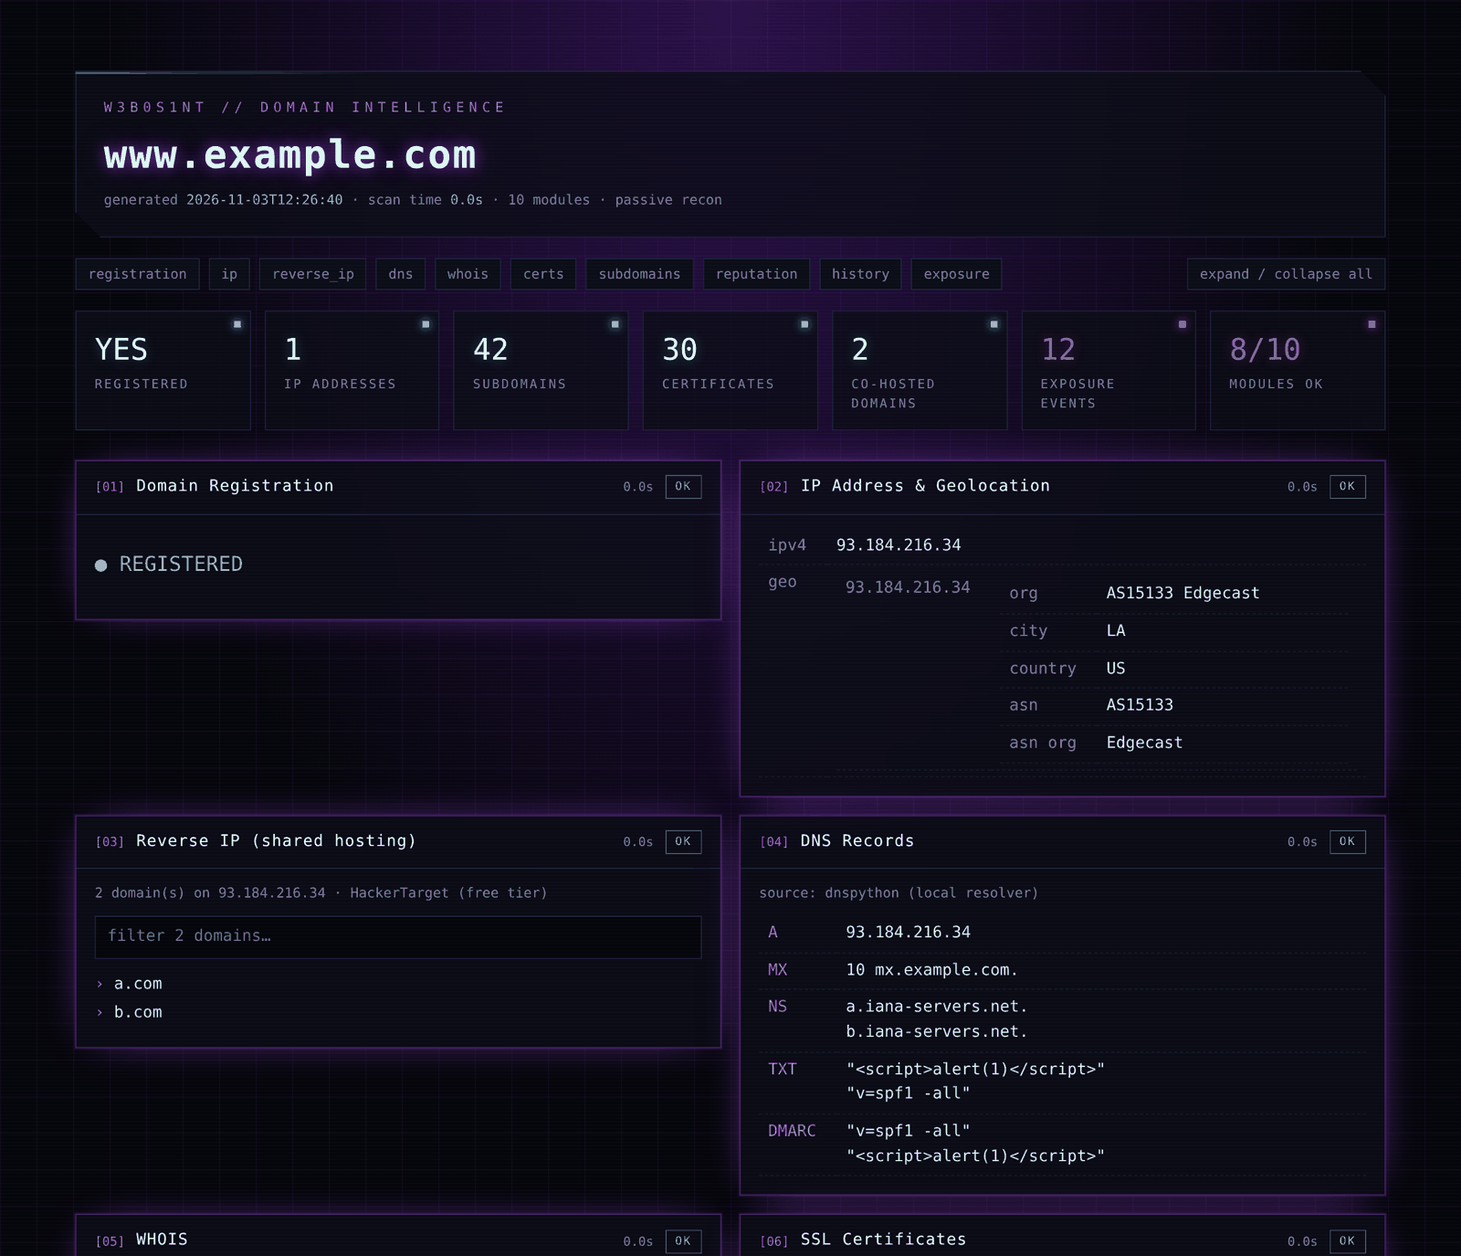
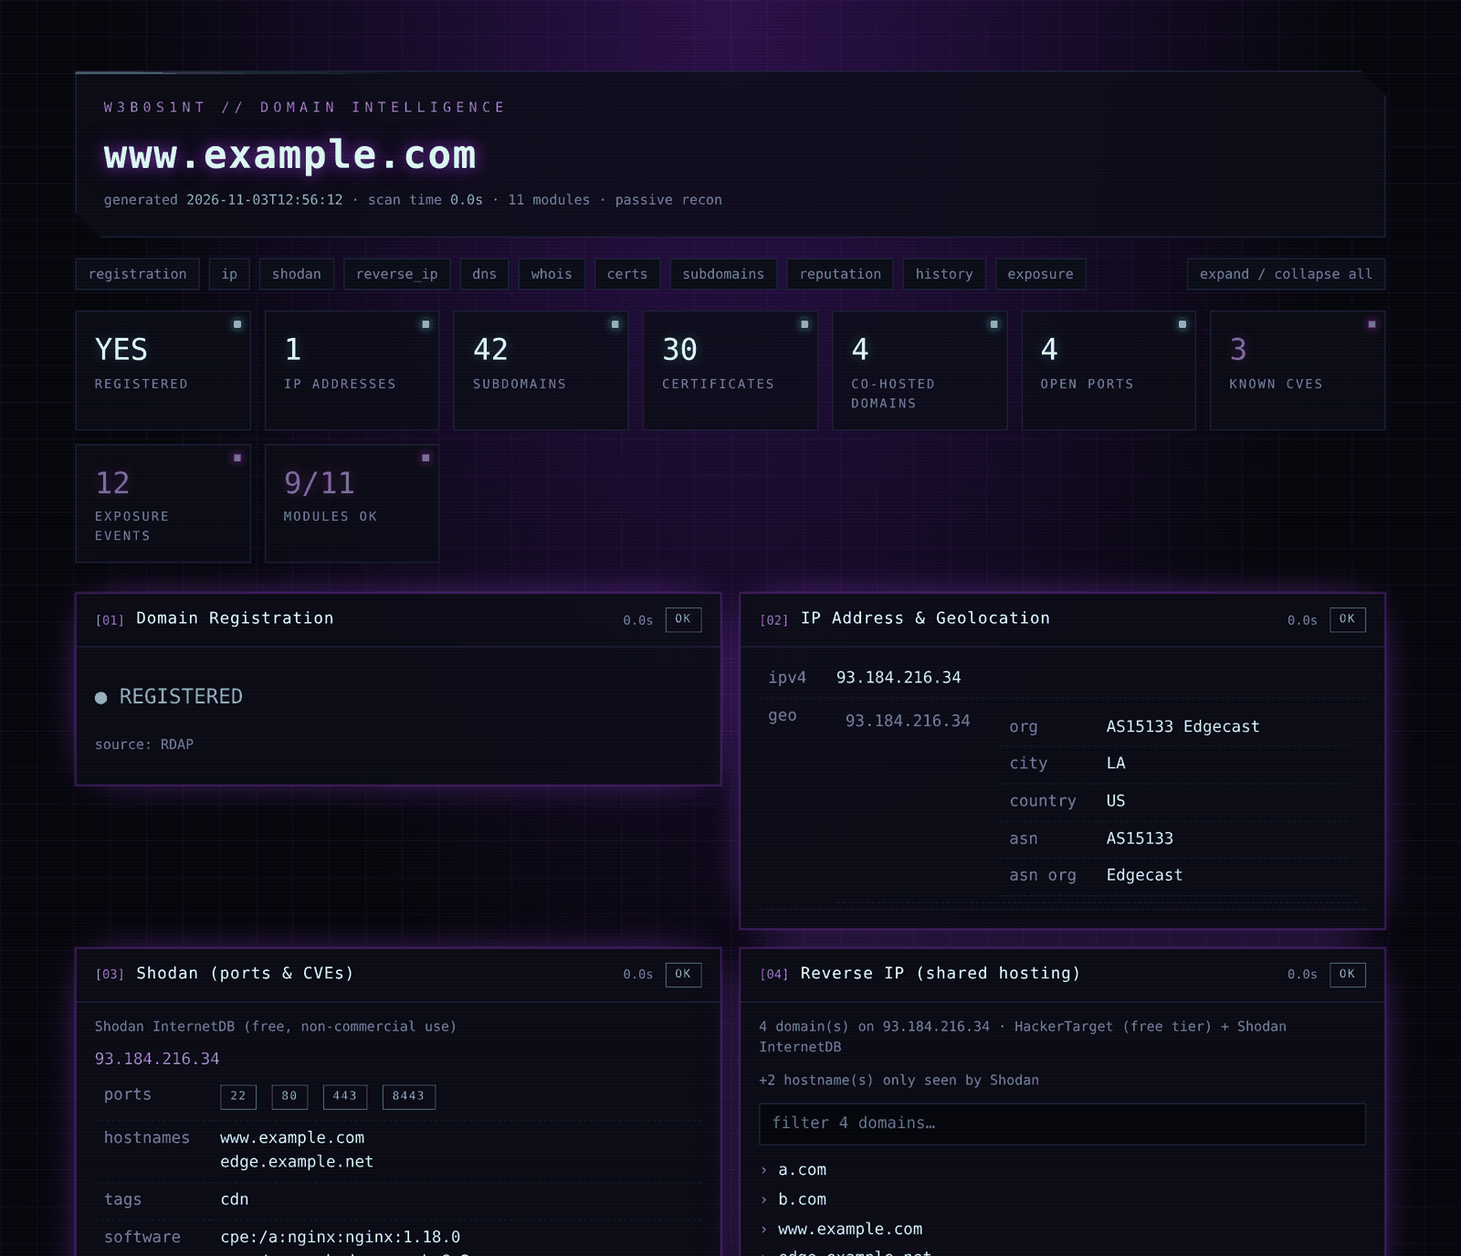
Add Shodan InternetDB module (ports, CVEs) + reverse IP backup

diff --git a/webosint.py b/webosint.py
@@ -91,6 +91,16 @@ KEY_ENV = {
 
 def load_keys(path=CONFIG_FILE):
     cfg = {}
+    example = os.path.join(os.path.dirname(os.path.abspath(path)), "config.example.json")
+    if not os.path.exists(path) and os.path.exists(example):
+        # first run: create your private config.json from the template (it is git-ignored)
+        try:
+            with open(example, encoding="utf-8") as src, open(path, "w", encoding="utf-8") as dst:
+                dst.write(src.read())
+            print(f"{C.D}[i] Created {path} from config.example.json; add your API keys there "
+                  f"(this file is never committed).{C.X}", file=sys.stderr)
+        except OSError:
+            pass
     if os.path.exists(path):
         try:
             with open(path, encoding="utf-8") as fh:
@@ -210,6 +220,16 @@ class Context:
             r.raise_for_status()
             return r.json()
         return self.cached("rdap", fetch)
+
+    def internetdb(self, ip):
+        """Shodan InternetDB: free, no key. Returns {} when Shodan has no data on the IP."""
+        def fetch():
+            r = self.session.get(f"https://internetdb.shodan.io/{ip}", timeout=self.timeout)
+            if r.status_code == 404:
+                return {}
+            r.raise_for_status()
+            return r.json()
+        return self.cached(f"internetdb:{ip}", fetch)
 
     def ips(self):
         def resolve():
@@ -390,15 +410,76 @@ def mod_reverse_ip(ctx):
         raise SkipModule("domain does not resolve")
     if not ips:
         raise SkipModule("no IPv4 address")
-    params = {"q": ips[0]}
+    ip = ips[0]
+
+    # 1) HackerTarget: free tier (20/day) or your key if config.json has one
+    ht_domains, ht_error = [], None
+    params = {"q": ip}
     if ctx.keys["HACKERTARGET_API_KEY"]:
         params["apikey"] = ctx.keys["HACKERTARGET_API_KEY"]
-    text = ctx.get("https://api.hackertarget.com/reverseiplookup/", params=params).text.strip()
-    if text.lower().startswith(("api count exceeded", "error")):
-        return {"ip": ips[0], "error": text}
-    domains = [l.strip() for l in text.splitlines() if l.strip()]
-    return {"ip": ips[0], "count": len(domains), "domains": domains,
-            "source": "HackerTarget (API key)" if "apikey" in params else "HackerTarget (free tier)"}
+    try:
+        text = ctx.get("https://api.hackertarget.com/reverseiplookup/", params=params).text.strip()
+        if text.lower().startswith(("api count exceeded", "error", "no dns a records")):
+            ht_error = text.splitlines()[0]
+        else:
+            ht_domains = [l.strip().lower() for l in text.splitlines() if l.strip()]
+    except Exception as exc:
+        ht_error = f"{exc.__class__.__name__}: {exc}"
+
+    # 2) Shodan InternetDB: always queried, free, no key (backup + extra hostnames)
+    sh_domains, sh_error = [], None
+    try:
+        sh_domains = [h.lower() for h in ctx.internetdb(ip).get("hostnames", [])]
+    except Exception as exc:
+        sh_error = f"{exc.__class__.__name__}: {exc}"
+
+    domains = uniq(ht_domains + sh_domains)
+    sources = []
+    if ht_domains:
+        sources.append("HackerTarget (API key)" if "apikey" in params else "HackerTarget (free tier)")
+    if sh_domains:
+        sources.append("Shodan InternetDB")
+    out = {"ip": ip, "count": len(domains), "domains": domains,
+           "source": " + ".join(sources) or "none"}
+    extra = [d for d in sh_domains if d not in set(ht_domains)]
+    if ht_domains and extra:
+        out["added_by_shodan"] = len(extra)
+    if ht_error:
+        out["hackertarget_note"] = ht_error + ("  → Shodan used as backup" if sh_domains else "")
+    if not domains:
+        out["error"] = "; ".join(x for x in (ht_error, sh_error) if x) or "no co-hosted domains found"
+    return out
+
+
+def mod_shodan(ctx):
+    """Open ports, software (CPE), tags and known CVEs per IP (Shodan InternetDB, free, no key)."""
+    try:
+        ips = ctx.ips()["ipv4"]
+    except socket.gaierror:
+        raise SkipModule("domain does not resolve")
+    if not ips:
+        raise SkipModule("no IPv4 address")
+    hosts = {}
+    for ip in ips[:3]:
+        try:
+            d = ctx.internetdb(ip)
+        except Exception as exc:
+            hosts[ip] = {"error": f"{exc.__class__.__name__}: {exc}"}
+            continue
+        if not d:
+            hosts[ip] = {"note": "no data in Shodan for this IP"}
+            continue
+        vulns = sorted(d.get("vulns", []), reverse=True)
+        hosts[ip] = {k: v for k, v in {
+            "ports": sorted(d.get("ports", [])),
+            "hostnames": d.get("hostnames", []),
+            "tags": d.get("tags", []),
+            "software": d.get("cpes", []),
+            "vulns_count": len(vulns),
+            "vulns": vulns,
+            "url": f"https://www.shodan.io/host/{ip}",
+        }.items() if v not in ([], None)}
+    return {"hosts": hosts, "source": "Shodan InternetDB (free, non-commercial use)"}
 
 
 DNS_TYPES = ("A", "AAAA", "CNAME", "MX", "NS", "TXT", "SOA", "CAA")
@@ -599,7 +680,8 @@ def mod_exposure(ctx):
 MODULES = [
     ("registration", "Domain Registration", mod_registration, "Is the domain registered? (RDAP/WHOIS)"),
     ("ip",           "IP Address & Geolocation", mod_ip, "A/AAAA + ipinfo.io / ipapi.co data"),
-    ("reverse_ip",   "Reverse IP (shared hosting)", mod_reverse_ip, "Other domains on the same IP (HackerTarget)"),
+    ("shodan",       "Shodan (ports & CVEs)", mod_shodan, "Open ports, software, known CVEs (Shodan, free)"),
+    ("reverse_ip",   "Reverse IP (shared hosting)", mod_reverse_ip, "Other domains on the same IP (HackerTarget + Shodan)"),
     ("dns",          "DNS Records", mod_dns, "A, AAAA, MX, NS, TXT, SOA, CAA, DMARC"),
     ("whois",        "WHOIS / RDAP", mod_whois, "Registrar, dates, contacts (RDAP, WHOIS fallback)"),
     ("certs",        "SSL Certificates", mod_certs, "Certificate Transparency (crt.sh)"),
@@ -706,7 +788,26 @@ def print_report(report, full=False):
                       + f"{C.X}  {C.D}({d.get('source', '')}){C.X}")
         elif key == "reverse_ip" and "domains" in d:
             print(f"    {C.D}{d['count']} domain(s) on {d['ip']} — {d['source']}{C.X}")
+            if d.get("hackertarget_note"):
+                print(f"    {C.Y}HackerTarget: {d['hackertarget_note']}{C.X}")
+            if d.get("added_by_shodan"):
+                print(f"    {C.D}(+{d['added_by_shodan']} hostname(s) only seen by Shodan){C.X}")
             print_list(d["domains"], limit)
+        elif key == "shodan":
+            for ip, h in d["hosts"].items():
+                print(f"    {C.B}{ip}{C.X}")
+                if "note" in h or "error" in h:
+                    print(f"      {C.D}{h.get('note') or h.get('error')}{C.X}")
+                    continue
+                for label, field in (("ports", "ports"), ("hostnames", "hostnames"), ("tags", "tags"),
+                                     ("software", "software")):
+                    if h.get(field):
+                        print(f"      {C.D}{label:<10}{C.X} {C.G}{_fmt(h[field])}{C.X}")
+                if h.get("vulns"):
+                    shown = h["vulns"] if full else h["vulns"][:15]
+                    more = "" if full or len(h["vulns"]) <= 15 else f" … +{len(h['vulns']) - 15}"
+                    print(f"      {C.D}{'CVEs':<10}{C.X} {C.R}{h['vulns_count']}: {', '.join(shown)}{more}{C.X}")
+                print(f"      {C.D}{h['url']}{C.X}")
         elif key == "subdomains":
             print(f"    {C.D}{d['count']} unique name(s) — {d['source']}{C.X}")
             print_list(d["subdomains"], limit)
@@ -866,8 +967,35 @@ def _html_module(key, res):
         return ('<p class="big yes">● REGISTERED</p>' if d["registered"]
                 else '<p class="big no">● NOT REGISTERED</p>') + src
     if key == "reverse_ip" and "domains" in d:
-        return f'<p class="note">{d["count"]} domain(s) on {_h(d["ip"])} · {_h(d["source"])}</p>' + \
+        notes = ""
+        if d.get("hackertarget_note"):
+            notes += f'<p class="warn" style="font-size:12px">HackerTarget: {_h(d["hackertarget_note"])}</p>'
+        if d.get("added_by_shodan"):
+            notes += f'<p class="note">+{d["added_by_shodan"]} hostname(s) only seen by Shodan</p>'
+        return f'<p class="note">{d["count"]} domain(s) on {_h(d["ip"])} · {_h(d["source"])}</p>' + notes + \
             _html_list(d["domains"], "domains")
+    if key == "shodan":
+        out = f'<p class="note">{_h(d["source"])}</p>'
+        for ip, h in d["hosts"].items():
+            if "note" in h or "error" in h:
+                out += f'<p><span class="tag">{_h(ip)}</span> <span class="note">{_h(h.get("note") or h.get("error"))}</span></p>'
+                continue
+            rows = ""
+            if h.get("ports"):
+                rows += "<tr><th>ports</th><td>" + " ".join(
+                    f'<span class="pill ok" style="margin:0 4px 4px 0;display:inline-block">{_h(p)}</span>'
+                    for p in h["ports"]) + "</td></tr>"
+            for f in ("hostnames", "tags", "software"):
+                if h.get(f):
+                    rows += f"<tr><th>{f}</th><td>{'<br>'.join(_h(x) for x in h[f])}</td></tr>"
+            if h.get("vulns"):
+                links = " ".join(f'<a href="https://nvd.nist.gov/vuln/detail/{_h(v)}" target="_blank" '
+                                 f'rel="noopener noreferrer" style="color:var(--bad)">{_h(v)}</a>' for v in h["vulns"])
+                rows += f'<tr><th>CVEs ({h["vulns_count"]})</th><td>{links}</td></tr>'
+            rows += (f'<tr><th>shodan</th><td><a href="{_h(h["url"])}" target="_blank" '
+                     f'rel="noopener noreferrer">{_h(h["url"])}</a></td></tr>')
+            out += f'<p class="tag" style="margin:10px 0 4px">{_h(ip)}</p><table>{rows}</table>'
+        return out
     if key == "subdomains":
         return f'<p class="note">{d["count"]} unique hostname(s) · {_h(d["source"])}</p>' + \
             _html_list(d["subdomains"], "subdomains")
@@ -905,6 +1033,12 @@ def _kpis(rep):
         tiles.append(("Certificates", data("certs")["total"], False))
     if data("reverse_ip") and "count" in data("reverse_ip"):
         tiles.append(("Co-hosted domains", data("reverse_ip")["count"], False))
+    if data("shodan"):
+        hosts = [h for h in data("shodan")["hosts"].values() if "ports" in h or "vulns" in h]
+        if hosts:
+            tiles.append(("Open ports", len({p for h in hosts for p in h.get("ports", [])}), False))
+            cves = len({v for h in hosts for v in h.get("vulns", [])})
+            tiles.append(("Known CVEs", cves, cves > 0))
     if data("exposure") and data("exposure").get("summary"):
         t = data("exposure")["summary"].get("total_events")
         if t is not None:

diff --git a/README.md b/README.md
@@ -4,13 +4,14 @@
 
 # WebOSINT
 
-**Passive domain intelligence from your terminal: one command, ten sources, a few seconds.**
+**Passive domain intelligence from your terminal: one command, eleven sources, a few seconds.**
 
 <img src="https://img.shields.io/badge/version-3.1-purple?style=flat-square"/>
 <img src="https://img.shields.io/badge/python-3.8%2B-purple?style=flat-square&logo=python&logoColor=white"/>
 <img src="https://img.shields.io/badge/recon-passive-purple?style=flat-square"/>
 <img src="https://img.shields.io/badge/docker-ready-purple?style=flat-square&logo=docker&logoColor=white"/>
 <a href="https://github.com/C3n7ral051nt4g3ncy/webosint/blob/master/LICENSE"><img src="https://img.shields.io/badge/licence-MIT-purple?style=flat-square"/></a>
+<a href="https://internetdb.shodan.io/"><img src="https://img.shields.io/badge/powered%20by-Shodan%20InternetDB-c41b1b?style=flat-square"/></a>
 
 <a href="https://github.com/C3n7ral051nt4g3ncy"><img alt="GitHub" src="https://img.shields.io/badge/GitHub-C3n7ral051nt4g3ncy-purple?style=for-the-badge&logo=github&logoColor=white"/></a>
 <a href="https://ko-fi.com/tacticalintelanalyst"><img alt="Ko-fi" src="https://img.shields.io/badge/Ko--fi-support-purple?style=for-the-badge&logo=ko-fi&logoColor=white"/></a>
@@ -28,7 +29,7 @@ WebOSINT is a Python tool for **passive reconnaissance on a domain**. Give it a 
 
 - ⚡ **Fast.** All modules run in parallel, so a full scan takes seconds.
 - 🧭 **Simple.** Run it with no arguments for a guided menu, or script it from the command line.
-- 🔑 **No key required to start.** Seven of the ten modules are free. Modules whose key is missing are skipped, not fatal.
+- 🔑 **No key required to start.** Nine of the eleven modules are free, Shodan included. Modules whose key is missing are skipped, not fatal.
 - 📄 **Report-ready.** Export a futuristic **HTML report**, **JSON** for your pipeline, or **Markdown** for your case notes.
 - 📚 **Batch mode.** Feed it a list of domains.
 
@@ -96,12 +97,13 @@ python3 webosint.py example.com -m subdomains --json | jq -r '.modules.subdomain
 <summary><b>Example output</b></summary>
 
 ```text
-▶ Target: example.com  (10 modules in parallel)
+▶ Target: example.com  (11 modules in parallel)
   ✔ Domain Registration              0.6s
   ✔ DNS Records                      0.3s
   ✔ IP Address & Geolocation         0.9s
+  ✔ Shodan (ports & CVEs)            0.7s
   ✔ Reverse IP (shared hosting)      1.2s
-  ✔ WHOIS                            0.6s
+  ✔ WHOIS / RDAP                     0.6s
   ✔ Credential Exposure              2.1s
   ✔ SSL Certificates                 6.4s
   ✔ Subdomains                       6.4s
@@ -145,20 +147,38 @@ In interactive mode, WebOSINT asks *"Save an HTML report?"* at the end. Press En
 
 ---
 
+## <img src="https://cdn.jsdelivr.net/gh/selfhst/icons/svg/shodan.svg" height="26" alt="Shodan" align="top"> Shodan, built in
+
+Every scan queries **[Shodan InternetDB](https://internetdb.shodan.io/)** for each IP of the domain. It's **free, needs no account or API key**, and is updated weekly:
+
+| What you get | Why it matters |
+|---|---|
+| **Open ports** | 22 (SSH), 3389 (RDP), 3306/5432 (databases), 8080/8443 (admin panels) reveal the real attack surface behind a website |
+| **Software (CPE)** | Exact products and versions, e.g. `nginx 1.18.0`, `OpenSSH 8.2` |
+| **Known CVEs** | Vulnerabilities Shodan associates with those versions, linked to NVD in the HTML report |
+| **Tags** | `cdn`, `cloud`, `vpn`, `self-signed`, `honeypot`, … for quick context on the infrastructure |
+| **Hostnames** | Names seen on the IP: also used as **backup and enrichment for reverse IP** |
+
+> [!NOTE]
+> InternetDB is free for **non-commercial use**. Commercial use requires a Shodan enterprise licence. CVEs are inferred from software versions: confirm them before drawing conclusions.
+
+---
+
 ## 🧩 Modules
 
 | # | Module | What it reveals for the investigation | Source | Key |
 |:-:|---|---|---|:-:|
 | 1 | `registration` | Whether the domain is registered (available, parked, or recently dropped domains) | RDAP · WHOIS | — |
 | 2 | `ip` | IPv4/IPv6, hosting provider, ASN, geolocation, cross-checked by two services | DNS · ipinfo.io · ipapi.co | — |
-| 3 | `reverse_ip` | Other domains on the same IP: shared hosting, sister sites, related infrastructure | HackerTarget | optional |
-| 4 | `dns` | A, AAAA, CNAME, MX (mail provider), NS, TXT (SPF, site verifications for Google/Microsoft/etc.), SOA, CAA, DMARC | local resolver (dnspython) | — |
-| 5 | `whois` | Registrar (+ IANA ID), creation/expiry/update dates, status, name servers, DNSSEC, registrant/abuse contacts when not redacted | RDAP · WHOIS fallback | — |
-| 6 | `certs` | Number of certificates, first-seen date (a good proxy for when the site went live), issuers, latest certs | crt.sh | — |
-| 7 | `subdomains` | Every hostname that has appeared in a certificate: dev/staging hosts, VPNs, admin panels, forgotten services | crt.sh | — |
-| 8 | `reputation` | Reputation score plus failed security tests (malware, SSL, mail config) | WhoisXML | required |
-| 9 | `history` | Past registrars and registrant details over time, often revealing the owner before privacy protection was turned on | WhoisFreaks | required |
-| 10 | `exposure` | Infostealer and data-breach exposure linked to the domain over the last 12 months (employee vs client events, first/last seen) | [Lunar Domain Exposure API](https://docs.webz.io/docs/webz/domain-exposure-api) | — |
+| 3 | <img src="https://cdn.jsdelivr.net/gh/selfhst/icons/svg/shodan.svg" height="14" alt=""> `shodan` | Open ports, detected software (CPE), tags (cdn, cloud, vpn, self-signed…) and **known CVEs** for each IP; exposed admin/SSH/DB ports often matter more than the website | [Shodan InternetDB](https://internetdb.shodan.io/) | — |
+| 4 | `reverse_ip` | Other domains on the same IP: shared hosting, sister sites, related infrastructure. HackerTarget results **plus** hostnames Shodan saw on that IP; Shodan takes over automatically when HackerTarget's free quota runs out | HackerTarget · Shodan | optional |
+| 5 | `dns` | A, AAAA, CNAME, MX (mail provider), NS, TXT (SPF, site verifications for Google/Microsoft/etc.), SOA, CAA, DMARC | local resolver (dnspython) | — |
+| 6 | `whois` | Registrar (+ IANA ID), creation/expiry/update dates, status, name servers, DNSSEC, registrant/abuse contacts when not redacted | RDAP · WHOIS fallback | — |
+| 7 | `certs` | Number of certificates, first-seen date (a good proxy for when the site went live), issuers, latest certs | crt.sh | — |
+| 8 | `subdomains` | Every hostname that has appeared in a certificate: dev/staging hosts, VPNs, admin panels, forgotten services | crt.sh | — |
+| 9 | `reputation` | Reputation score plus failed security tests (malware, SSL, mail config) | WhoisXML | required |
+| 10 | `history` | Past registrars and registrant details over time, often revealing the owner before privacy protection was turned on | WhoisFreaks | required |
+| 11 | `exposure` | Infostealer and data-breach exposure linked to the domain over the last 12 months (employee vs client events, first/last seen) | [Lunar Domain Exposure API](https://docs.webz.io/docs/webz/domain-exposure-api) | — |
 
 > [!NOTE]
 > crt.sh is fetched **once** and shared between `certs` and `subdomains`, with automatic retries. It is a free community service and is often overloaded; if it fails, run `-m certs,subdomains` again a minute later.
@@ -167,7 +187,9 @@ In interactive mode, WebOSINT asks *"Save an HTML report?"* at the end. Press En
 
 ## 🔑 API keys
 
-Keys are **optional**. Put them in `config.json` **or** export them as environment variables, which is handy for Docker or CI and keeps keys out of git.
+Keys are **optional**. Put them in `config.json` **or** export them as environment variables (handy for Docker or CI).
+
+`config.json` is **your private file**: it is git-ignored and Docker-ignored, so your keys never get pushed or baked into an image. The repo only ships the template `config.example.json`, and WebOSINT creates `config.json` from it on first run (or do it yourself: `cp config.example.json config.json`).
 
 ```json
 {
@@ -181,14 +203,14 @@ Keys are **optional**. Put them in `config.json` **or** export them as environme
 |---|---|---|---|---|
 | [WhoisXML](https://whois.whoisxmlapi.com) | 500 requests | `WHOIS_XML_API_KEY` | `WEBOSINT_WHOISXML_KEY` | `reputation` |
 | [WhoisFreaks](https://whoisfreaks.com) | 100 requests | `WHOIS_FREAKS_API_KEY` | `WEBOSINT_WHOISFREAKS_KEY` | `history` |
-| [HackerTarget](https://hackertarget.com/scan-membership/) | a few lookups/day | `HACKERTARGET_API_KEY` | `WEBOSINT_HACKERTARGET_KEY` | unlimited `reverse_ip` |
+| [HackerTarget](https://hackertarget.com/scan-membership/) | 20 lookups/day, 50 results each (no key) | `HACKERTARGET_API_KEY` | `WEBOSINT_HACKERTARGET_KEY` | more `reverse_ip` results (paid membership) |
 
 ```bash
 WEBOSINT_WHOISXML_KEY=xxxx WEBOSINT_WHOISFREAKS_KEY=yyyy python3 webosint.py example.com
 ```
 
 > [!WARNING]
-> Never commit a `config.json` that contains your real keys. Run `git diff config.json` before pushing, or use the environment variables.
+> Never put real keys in `config.example.json`, because that file **is** committed.
 
 ---
 
@@ -237,7 +259,7 @@ Lunar builds the report on demand the first time a domain is requested. WebOSINT
 <details>
 <summary><b>Reverse IP says "API count exceeded"</b></summary>
 
-You've used up HackerTarget's free daily lookups. Wait, change IP, or add a HackerTarget key.
+You've used up HackerTarget's 20 free daily lookups. Nothing to do: WebOSINT automatically uses the hostnames Shodan has seen on that IP as a backup. For full reverse IP lists, wait until tomorrow or add a HackerTarget key.
 </details>
 
 <details>
@@ -250,7 +272,9 @@ Use `--full`, or export with `-o result.json` / `--md report.md`. Exports always
 
 ## ✨ What's new in v3.1
 
+- <img src="https://cdn.jsdelivr.net/gh/selfhst/icons/svg/shodan.svg" height="14" alt=""> **Shodan InternetDB (free, no key).** New `shodan` module on every scan: open ports, software, tags and known CVEs per IP (CVE links to NVD in the HTML report, new *Open ports* / *Known CVEs* tiles). Shodan also backs up and enriches reverse IP, so results keep coming when HackerTarget's free quota is used up.
 - 🧾 **RDAP support.** WHOIS and registration checks now query **RDAP** first (the structured JSON successor of WHOIS, mandatory for every gTLD) and fall back to classic WHOIS. New gTLDs such as `.sarl`, `.app`, `.xyz` or `.paris`, which python-whois can't read, now return full results.
+- 🔐 **API keys stay private.** `config.json` is no longer tracked by git (template: `config.example.json`) and is excluded from Docker builds.
 - 🎯 **No more false "not registered".** If no registry answers, WebOSINT says so (or confirms registration from DNS) instead of guessing.
 
 ## ✨ What's new in v3.0
@@ -284,9 +308,10 @@ This tool is for the OSINT and cyber community. Don't use it for wrong, immoral,
 
 ## 🙏 Credits
 
-- [Hacker Target](https://hackertarget.com), [WhoisXML](https://main.whoisxmlapi.com), [WhoisFreaks](https://whoisfreaks.com), [crt.sh](https://crt.sh), [ipinfo.io](https://ipinfo.io), [ipapi.co](https://ipapi.co) and [Lunar / Webz.io](https://docs.webz.io/docs/webz/domain-exposure-api) for their APIs and free tiers
+- [Hacker Target](https://hackertarget.com), [WhoisXML](https://main.whoisxmlapi.com), [WhoisFreaks](https://whoisfreaks.com), [crt.sh](https://crt.sh), [ipinfo.io](https://ipinfo.io), [ipapi.co](https://ipapi.co), [Shodan](https://www.shodan.io) (InternetDB) and [Lunar / Webz.io](https://docs.webz.io/docs/webz/domain-exposure-api) for their APIs and free tiers
 - [@cipher387](https://github.com/cipher387) / [@cyb_detective](https://twitter.com/cyb_detective) and [Euler Neto](https://github.com/netoeuler) for testing the first release
 - [@scorpix06](https://github.com/scorpix06) for the original Docker support
+- Shodan icon from [selfh.st/icons](https://selfh.st/icons/) (CC BY 4.0). Shodan is a trademark of its owner; WebOSINT is not affiliated with Shodan
 
 <br>
 
